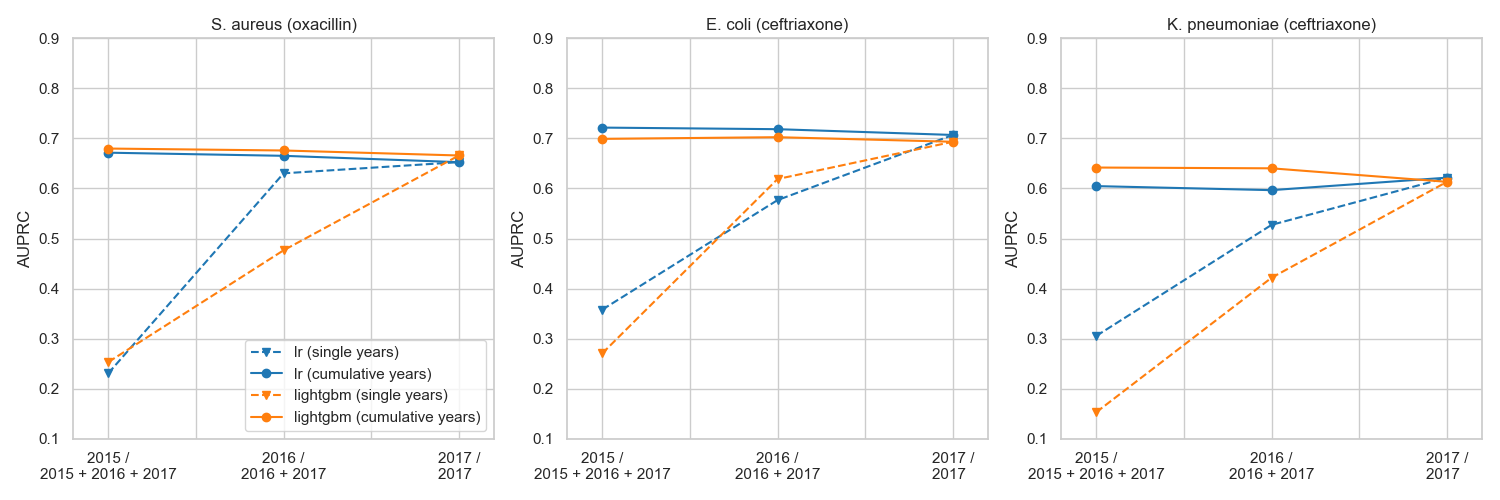
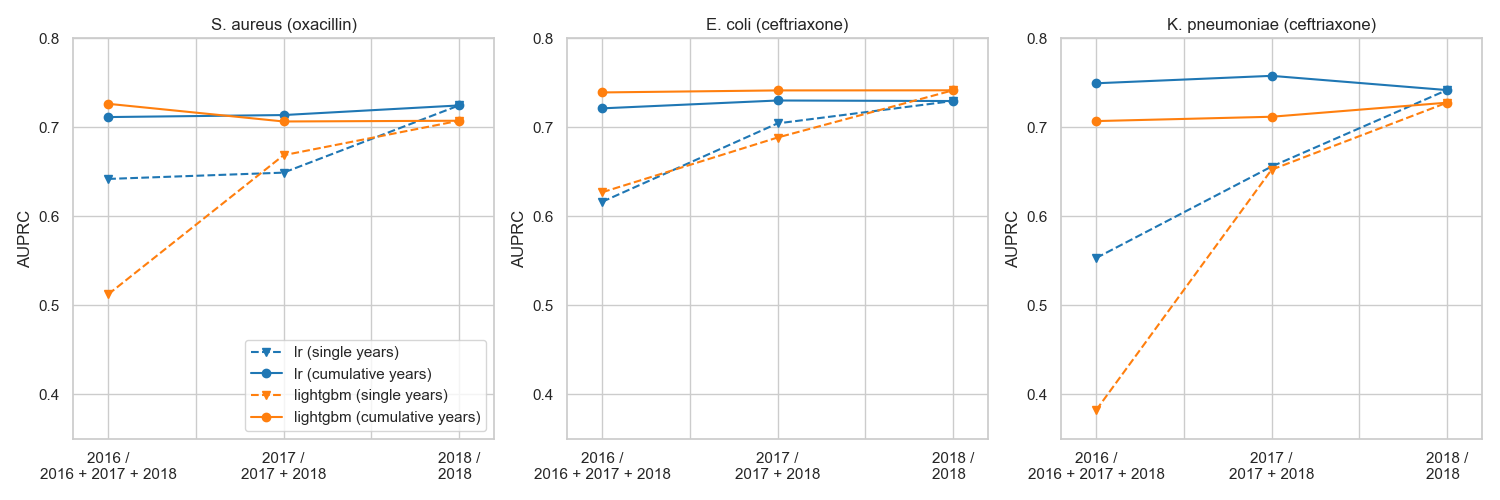
new temporal validation precedure

diff --git a/amr_maldi_ml/plot_fig4_temporal_validation.py b/amr_maldi_ml/plot_fig4_temporal_validation.py
@@ -56,8 +56,8 @@ def plot_temporal_validation(df, metric='auprc'):
 
     models = ['lr', 'lightgbm']
 
-    single_years = ['2015', '2016', '2017']
-    cumulative_years = ['2015 2016 2017', '2016 2017', '2017'] 
+    single_years = ['2016', '2017', '2018']
+    cumulative_years = ['2016 2017 2018', '2017 2018', '2018'] 
 
     metric_map = {
             'auprc': 'AUPRC',
@@ -82,7 +82,7 @@ def plot_temporal_validation(df, metric='auprc'):
                 f'{species}', f'{antibiotic}', model, slice(None),'2018'
                           ), 
                          (
-                f'{metric}', 'mean'
+                f'{metric}', slice(None)
                           ),
                          ].reset_index()
 
@@ -92,18 +92,35 @@ def plot_temporal_validation(df, metric='auprc'):
                            ]
             
             y_vals = []
+            y_stds = []
             for year in single_years:
                 y_vals.append(df__.loc[
                     df__['train_years']==year
                                        ][(f'{metric}','mean')].values[0])
+                y_stds.append(df__.loc[
+                    df__['train_years']==year
+                                       ][(f'{metric}','std')].values[0])
+
+            lower = [y_vals[i] - y_stds[i] for i,_ in enumerate(y_vals)]
+            upper = [y_vals[i] + y_stds[i] for i,_ in enumerate(y_vals)]
+            x = range(len(y_vals))
+
             ax[i].plot(
-                #[0,1,2],
+                x,
                 y_vals, 
                 color=model_map[model],
                 linestyle='--',
                 marker='v',
                 label=f'{model} (single years)'
                            )
+            #ax[i].fill_between(
+            #    x,
+            #    lower,
+            #    upper,
+            #    color=model_map[model],
+            #    alpha=0.25,
+            #    linestyle='--',
+            #                    )   
             
             # plot cumulative years curve
             df__ = df_.loc[
@@ -111,30 +128,47 @@ def plot_temporal_validation(df, metric='auprc'):
                            ]
 
             y_vals = []
+            y_stds = []
             for year in cumulative_years:
                 y_vals.append(df__.loc[
                     df__['train_years']==year
                                        ][(f'{metric}','mean')].values[0])
+                y_stds.append(df__.loc[
+                    df__['train_years']==year
+                                       ][(f'{metric}','std')].values[0])
+
+            lower = [y_vals[i] - y_stds[i] for i,_ in enumerate(y_vals)]
+            upper = [y_vals[i] + y_stds[i] for i,_ in enumerate(y_vals)]
+            x = range(len(y_vals))
+
             ax[i].plot(
-                #[0,1,2],
+                x,
                 y_vals, 
                 color=model_map[model],
                 marker='o',
                 label=f'{model} (cumulative years)',
                            )
+            #ax[i].fill_between(
+            #    x,
+            #    lower,
+            #    upper,
+            #    color=model_map[model],
+            #    alpha=0.25,
+            #    linestyle='--',
+            #                    )   
 
             ax[i].set_title(f'{species_map[species]} ({antibiotic})')
-            if metric=='auprc': ax[i].set_ylim((0.1, 0.9))
-            if metric=='auroc': ax[i].set_ylim((0.1, 0.9))
+            if metric=='auprc': ax[i].set_ylim((0.35, 0.8))
+            if metric=='auroc': ax[i].set_ylim((0.65, 0.90))
             ax[i].set_xlim((-0.2, 2.2))
             ax[i].set_ylabel(metric_map[metric])
             if i==0:
                 ax[i].legend(loc='lower right')
             
             ax[i].set_xticklabels([
-                '', '2015 /\n2015 + 2016 + 2017', 
-                '', '2016 /\n2016 + 2017', 
-                '', '2017 /\n2017  '])
+                '', '2016 /\n2016 + 2017 + 2018', 
+                '', '2017 /\n2017 + 2018', 
+                '', '2018 /\n2018  '])
 
     plt.tight_layout()
     plt.savefig(f'plots/temporal_validation/temporal_validation_{metric}.png')
@@ -154,17 +188,9 @@ if __name__ == '__main__':
         help='If set, ignores files that contain the specified string.'
     )
 
-    parser.add_argument(
-        '-o', '--output',
-        type=str,
-        default='plots/tables/Table3_replication.csv',
-        help='If set, output table to filename.'
-    )
-
     args = parser.parse_args()
     
-    metrics = [ 'auroc', 'auprc', 'accuracy']
-
+    metrics = ['auroc', 'auprc', 'accuracy']
 
     models = ['lr', 'lightgbm']
 
